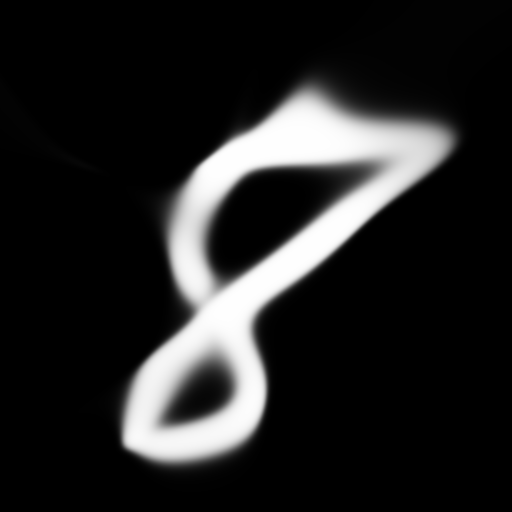
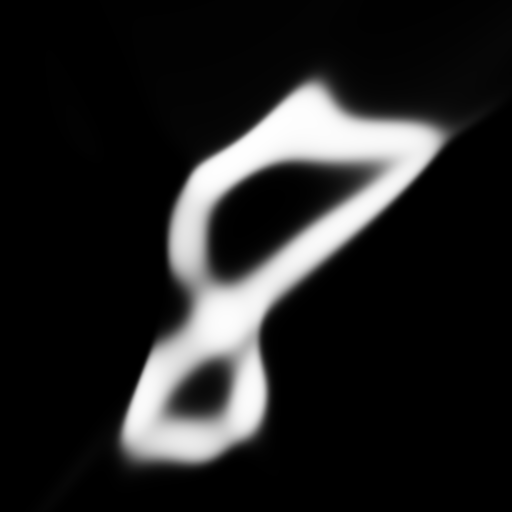
[upscale_img] working on ui

diff --git a/upscale_img.cpp b/upscale_img.cpp
@@ -18,6 +18,15 @@
 #include "nn.h"
 
 #define DA_INIT_CAP 256
+#define da_append(da, item, dtype) \
+	do { \
+		if ((da)->count >= (da)->capacity) { \
+			(da)->capacity = (da)->capacity == 0 ? DA_INIT_CAP : (da)->capacity * 2; \
+			(da)->items = (dtype*)realloc((da)->items, (da)->capacity*sizeof(*(da)->items)); \
+			assert((da)->items != NULL && "Buy more RAM lol"); \
+		} \
+		(da)->items[(da)->count++] = (item); \
+	} while(0) \
 
 typedef struct {
 	size_t* items;
@@ -31,15 +40,7 @@ typedef struct {
 	size_t capacity;
 } Cost_Plot;
 
-#define da_append(da, item, dtype) \
-	do { \
-		if ((da)->count >= (da)->capacity) { \
-			(da)->capacity = (da)->capacity == 0 ? DA_INIT_CAP : (da)->capacity * 2; \
-			(da)->items = (dtype*)realloc((da)->items, (da)->capacity*sizeof(*(da)->items)); \
-			assert((da)->items != NULL && "Buy more RAM lol"); \
-		} \
-		(da)->items[(da)->count++] = (item); \
-	} while(0) \
+size_t arch[] = { 3, 14, 14, 1 };
 
 void nn_render_raylib(NN nn, int rx, int ry, int rw, int rh)
 {
@@ -174,52 +175,82 @@ int main(int argc, char** argv)
 	const char* program = args_shift(&argc, &argv);
 
 	if (argc <= 0) {
-		fprintf(stderr, "USAGE: %s <input>\n", program);
-		fprintf(stderr, "ERROR: no input file is provided\n");
+		fprintf(stderr, "USAGE: %s <image1> <image2>\n", program);
+		fprintf(stderr, "ERROR: no image1 file is provided\n");
 
 		return 1;
 	}
-	const char* img_file_path = args_shift(&argc, &argv);
+	const char* img1_file_path = args_shift(&argc, &argv);
 
-	int img_width, img_height, img_comp;
-	uint8_t *img_pixels= (uint8_t*)stbi_load(img_file_path, &img_width, &img_height, &img_comp, 0);
-	if (img_pixels == NULL) {
-		fprintf(stderr, "ERROR: could not read image %s\n", img_file_path);
+	if (argc <= 0) {
+		fprintf(stderr, "USAGE: %s <image1> <image2>\n", program);
+		fprintf(stderr, "ERROR: no image2 file is provided\n");
+
 		return 1;
 	}
-	if (img_comp != 1) {
-		fprintf(stderr, "ERROR: %s is %d bits image. Only 8 bit grayscale images are supported\n", img_file_path, img_comp * 8);
+	const char* img2_file_path = args_shift(&argc, &argv);
+
+	int img1_width, img1_height, img1_comp;
+	uint8_t *img1_pixels= (uint8_t*)stbi_load(img1_file_path, &img1_width, &img1_height, &img1_comp, 0);
+	if (img1_pixels == NULL) {
+		fprintf(stderr, "ERROR: could not read image %s\n", img1_file_path);
+		return 1;
+	}
+	if (img1_comp != 1) {
+		fprintf(stderr, "ERROR: %s is %d bits image. Only 8 bit grayscale images are supported\n", img1_file_path, img1_comp * 8);
 		
 		return 1;
 	}
 
-	printf("%s size %dX%d %d bits\n", img_file_path, img_width, img_height, img_comp*8);
+	printf("%s size %dX%d %d bits\n", img1_file_path, img1_width, img1_height, img1_comp * 8);
 
-	size_t input = 2;
-	size_t output = 1;
-	size_t arch[] = { input, 7, 7, output };
-	Mat t = mat_alloc(img_width * img_height, input + output);
-
-	for (int y = 0; y < img_height; ++y) {
-		for (int x = 0; x < img_width; ++x) {
-			size_t i = y * img_width + x;
-
-			MAT_AT(t, i, 0) = (float)x / (img_width - 1);
-			MAT_AT(t, i, 1) = (float)y / (img_height - 1);
-			MAT_AT(t, i, 2) = img_pixels[y * img_width + x] / 255.f;
-		}
+	int img2_width, img2_height, img2_comp;
+	uint8_t *img2_pixels= (uint8_t*)stbi_load(img2_file_path, &img2_width, &img2_height, &img2_comp, 0);
+	if (img2_pixels == NULL) {
+		fprintf(stderr, "ERROR: could not read image %s\n", img2_file_path);
+		return 1;
+	}
+	if (img2_comp != 1) {
+		fprintf(stderr, "ERROR: %s is %d bits image. Only 8 bit grayscale images are supported\n", img1_file_path, img2_comp * 8);
+		
+		return 1;
 	}
 
-	mat_shuffle_rows(t);
+	printf("%s size %dX%d %d bits\n", img2_file_path, img2_width, img2_height, img2_comp*8);
+
 
 	NN nn = nn_alloc(arch, ARRAY_LEN(arch));
 	NN g = nn_alloc(arch, ARRAY_LEN(arch));
+
+	Mat t = mat_alloc(img1_width * img1_height + img2_width * img2_height, NN_INPUT(nn).cols + NN_OUTPUT(nn).cols);
+
+	for (int y = 0; y < img1_height; ++y) {
+		for (int x = 0; x < img1_width; ++x) {
+			size_t i = y * img1_width + x;
+
+			MAT_AT(t, i, 0) = (float)x / (img1_width - 1);
+			MAT_AT(t, i, 1) = (float)y / (img1_height - 1);
+			MAT_AT(t, i, 2) = 0.0f;
+			MAT_AT(t, i, 3) = img1_pixels[y * img1_width + x] / 255.f;
+		}
+	}
+
+	for (int y = 0; y < img2_height; ++y) {
+		for (int x = 0; x < img2_width; ++x) {
+			size_t i = img1_width * img1_height +  y * img2_width + x;
+
+			MAT_AT(t, i, 0) = (float)x / (img2_width - 1);
+			MAT_AT(t, i, 1) = (float)y / (img2_height - 1);
+			MAT_AT(t, i, 2) = 1.0f;
+			MAT_AT(t, i, 3) = img2_pixels[y * img2_width + x] / 255.f;
+		}
+	}
 	nn_rand(nn, -1.f, 1.f);
 
 	clock_t start, end;
 	float t_speed, est_time = 0;
 
-	float rate = 0.5f;
+	float rate = 1.0f;
 	size_t max_epoch = 1e4;
 	size_t epoch = 0;
 
@@ -234,29 +265,35 @@ int main(int argc, char** argv)
 	Cost_Plot plot = { 0 };
 
 	// training neural network and visualization
-	size_t IMG_FACTOR = 100;
-	int IMG_WIDTH = (16 * IMG_FACTOR);
-	int IMG_HEIGHT = (9 * IMG_FACTOR);
+	// creating window
+	size_t WINDOW_FACTOR = 100;
+	int WINDOW_WIDTH = (16 * WINDOW_FACTOR);
+	int WINDOW_HEIGHT = (9 * WINDOW_FACTOR);
 
 	SetConfigFlags(FLAG_WINDOW_RESIZABLE);
-
-	char buffer[256];
-	snprintf(buffer, sizeof(buffer), "%s Upscaling", img_file_path);
-	InitWindow(IMG_WIDTH, IMG_HEIGHT, buffer);
-
+	InitWindow(WINDOW_WIDTH, WINDOW_HEIGHT, "Upscaling Image");
 	SetTargetFPS(60);
 
 	// preview images
-	int factor = 3;
-	int prev_width = img_width*factor;
-	int prev_height = img_height*factor;
+	int factor = 1;
+	int prev_width = img1_width*factor;
+	int prev_height = img1_height*factor;
 
-	Image original_image = LoadImage(img_file_path);
-	Texture2D original_texture = LoadTextureFromImage(original_image);
+	Image original_image1 = LoadImage(img1_file_path);
+	Texture2D original_texture1 = LoadTextureFromImage(original_image1);
+	Image original_image2 = LoadImage(img2_file_path);
+	Texture2D original_texture2 = LoadTextureFromImage(original_image2);
+	
+	Image preview_image1 = GenImageColor(prev_width, prev_height, BLACK);
+	Texture2D preview_texture1 = LoadTextureFromImage(preview_image1);
+	Image preview_image2 = GenImageColor(prev_width, prev_height, BLACK);
+	Texture2D preview_texture2 = LoadTextureFromImage(preview_image2);
+	
 	Image preview_image = GenImageColor(prev_width, prev_height, BLACK);
 	Texture2D preview_texture = LoadTextureFromImage(preview_image);
 
 	bool paused = false;
+	float scroll = 0.0f;
 
 	while (!WindowShouldClose()) {
 		if (IsKeyPressed(KEY_SPACE)) {
@@ -269,7 +306,7 @@ int main(int argc, char** argv)
 			plot.count = 0;
 		}
 
-		if (IsKeyPressed(KEY_C)) {
+		if (IsKeyPressed(KEY_I)) {
 			max_epoch += max_epoch / 4;
 		}
 
@@ -286,14 +323,14 @@ int main(int argc, char** argv)
 
 			Mat batch_ti;
 			batch_ti.rows = size;
-			batch_ti.cols = input;
+			batch_ti.cols = NN_INPUT(nn).cols;
 			batch_ti.stride = t.stride;
 			batch_ti.es = &MAT_AT(t, batch_begin, 0);
 
 
 			Mat batch_to;
 			batch_to.rows = size;
-			batch_to.cols = output;
+			batch_to.cols = NN_OUTPUT(nn).cols;
 			batch_to.stride = t.stride;
 			batch_to.es = &MAT_AT(t, batch_begin, batch_ti.cols);
 
@@ -307,6 +344,7 @@ int main(int argc, char** argv)
 				da_append(&plot, average_cost/batch_count, float);
 				average_cost = 0.0f;
 				batch_begin = 0;
+				mat_shuffle_rows(t);
 			}
 		}
 
@@ -314,60 +352,116 @@ int main(int argc, char** argv)
 		Color background_color = { 0x18, 0x18, 0x18, 0xFF };
 		ClearBackground(background_color);
 		{
+			char buffer[256];
 			int rw, rh, rx, ry;
 			int w = GetRenderWidth();
 			int h = GetRenderHeight();
 
+			// cost plot
 			rw = w / 3;
 			rh = h * 2 / 3;
 			rx = 0;
 			ry = h / 2 - rh / 2;
 			plot_cost_raylib(plot, rx, ry, rw, rh);
 
+			// instructions render
+			DrawText("Pause -> [SPACE]\t\t\t\t\tReload -> [R]\t\t\t\t\tIncrease Epoch -> [I]", rx + 25, h - 2 * h * 0.02, h * 0.02, WHITE);
+
+			// nn render
 			rx += rw;
 			nn_render_raylib(nn, rx, ry, rw, rh);
 
+			// preview image render
 			rx += rw;
 			for (size_t y = 0; y < (size_t)prev_width; ++y) {
 				for (size_t x = 0; x < (size_t)prev_height; ++x) {
 					MAT_AT(NN_INPUT(nn), 0, 0) = (float)x / (prev_width - 1);
 					MAT_AT(NN_INPUT(nn), 0, 1) = (float)y / (prev_height - 1);
+					MAT_AT(NN_INPUT(nn), 0, 2) = 0.0f;
+					nn_forward(nn);
+					uint8_t pixel = MAT_AT(NN_OUTPUT(nn), 0, 0) * 255.f;
+					ImageDrawPixel(&preview_image1, x, y, CLITERAL(Color){pixel, pixel, pixel, 255});
+				}
+			}
+			for (size_t y = 0; y < (size_t)prev_width; ++y) {
+				for (size_t x = 0; x < (size_t)prev_height; ++x) {
+					MAT_AT(NN_INPUT(nn), 0, 0) = (float)x / (prev_width - 1);
+					MAT_AT(NN_INPUT(nn), 0, 1) = (float)y / (prev_height - 1);
+					MAT_AT(NN_INPUT(nn), 0, 2) = 1.0f;
+					nn_forward(nn);
+					uint8_t pixel = MAT_AT(NN_OUTPUT(nn), 0, 0) * 255.f;
+					ImageDrawPixel(&preview_image2, x, y, CLITERAL(Color){pixel, pixel, pixel, 255});
+				}
+			}
+			for (size_t y = 0; y < (size_t)prev_width; ++y) {
+				for (size_t x = 0; x < (size_t)prev_height; ++x) {
+					MAT_AT(NN_INPUT(nn), 0, 0) = (float)x / (prev_width - 1);
+					MAT_AT(NN_INPUT(nn), 0, 1) = (float)y / (prev_height - 1);
+					MAT_AT(NN_INPUT(nn), 0, 2) = scroll;
 					nn_forward(nn);
 					uint8_t pixel = MAT_AT(NN_OUTPUT(nn), 0, 0) * 255.f;
 					ImageDrawPixel(&preview_image, x, y, CLITERAL(Color){pixel, pixel, pixel, 255});
 				}
 			}
 
-			int scale = 15;
-			DrawTextureEx(original_texture, CLITERAL(Vector2) {(float)rx, (float)ry}, 0, scale, WHITE);
-			UpdateTexture(preview_texture, preview_image.data);
-			DrawTextureEx(preview_texture, CLITERAL(Vector2) {(float)rx, (float)(ry + prev_height*scale/factor)}, 0, scale/factor, WHITE);
+			float scale = rh * 0.013;
 
+			snprintf(buffer, sizeof(buffer), "%s:", img1_file_path);
+			DrawText(buffer, rx, ry - h * 0.02, h * 0.02, WHITE);
+			DrawTextureEx(original_texture1, CLITERAL(Vector2) {(float)rx, (float)ry}, 0, scale, WHITE);
+
+			snprintf(buffer, sizeof(buffer), "%s:", img2_file_path);
+			DrawText(buffer, rx + original_image1.width * scale, ry - h * 0.02, h * 0.02, WHITE);
+			UpdateTexture(original_texture2, original_image2.data);
+			DrawTextureEx(original_texture2, CLITERAL(Vector2) {(float)rx + original_image1.width * scale, (float)ry}, 0, scale, WHITE);
+
+			UpdateTexture(preview_texture1, preview_image1.data);
+			DrawTextureEx(preview_texture1, CLITERAL(Vector2) {(float)rx, (float)(ry + prev_height * scale / factor)}, 0, scale / factor, WHITE);
+			UpdateTexture(preview_texture2, preview_image2.data);
+			DrawTextureEx(preview_texture2, CLITERAL(Vector2) {(float)rx + prev_width * scale / factor, (float)(ry + prev_height * scale / factor)}, 0, scale / factor, WHITE);
+
+			DrawText("output:", rx, ry + prev_height * 2 * scale / factor, h * 0.02, WHITE);
+			UpdateTexture(preview_texture, preview_image.data);
+			DrawTextureEx(preview_texture, CLITERAL(Vector2) {(float)rx, (float)(ry + prev_height * 2 * scale / factor + h * 0.02)}, 0, scale / factor, WHITE);
+
+			// slider
+			Vector2 position = { (float)rx, (float)(ry + prev_height * 3 * scale / factor + h * 0.04) };
+			Vector2 size = { prev_width * scale / factor, rh * 0.004f };
+			float knob_radius = rh * 0.01;
+			Vector2 knob_position = { rx + size.x * scroll, position.y + size.y * 0.5f };
+			DrawRectangleV(position, size, WHITE);
+			DrawCircleV(knob_position , knob_radius, RED);
+			
+			snprintf(buffer, sizeof(buffer), "%.2f", scroll);
+			DrawText(buffer, rx + size.x * scroll, position.y + size.y + h * 0.01f, h * 0.005f, WHITE);
+			
+			// info render
 			if (!paused) {
 				end = clock();
 				t_speed = (((float)end - (float)start) * batch_count/ (batches_per_frame * CLOCKS_PER_SEC));
 				est_time = (max_epoch - epoch) * t_speed;
 			}
 
-			char buffer[256];
 			snprintf(buffer, sizeof(buffer), "Epoch: %zu/%zu, Rate: %f, Est. Time: %f sec", epoch, max_epoch, rate, est_time);
 			DrawText(buffer, 0, 0, h * 0.04, WHITE);
 		}
 		EndDrawing();
 	}
 	
-	for (size_t y = 0; y < (size_t)img_height; ++y) {
-		for (size_t x = 0; x < (size_t)img_width; ++x) {
-			uint8_t pixel = img_pixels[y*img_width + x];
+	// stdout
+	for (size_t y = 0; y < (size_t)img1_height; ++y) {
+		for (size_t x = 0; x < (size_t)img1_width; ++x) {
+			uint8_t pixel = img1_pixels[y*img1_width + x];
 			if (pixel) printf("%3u ", pixel); else printf("    ");
 		}
 		printf("\n");
 	}
 
-	for (size_t y = 0; y < (size_t)img_height; ++y) {
-		for (size_t x = 0; x < (size_t)img_width; ++x) {
-			MAT_AT(NN_INPUT(nn), 0, 0) = (float)x / (img_width - 1);
-			MAT_AT(NN_INPUT(nn), 0, 1) = (float)y / (img_height - 1);
+	for (size_t y = 0; y < (size_t)img1_height; ++y) {
+		for (size_t x = 0; x < (size_t)img1_width; ++x) {
+			MAT_AT(NN_INPUT(nn), 0, 0) = (float)x / (img1_width - 1);
+			MAT_AT(NN_INPUT(nn), 0, 1) = (float)y / (img1_height - 1);
+			MAT_AT(NN_INPUT(nn), 0, 2) = scroll;
 			nn_forward(nn);
 			uint8_t pixel = MAT_AT(NN_OUTPUT(nn), 0, 0) * 255.f;
 			if (pixel) printf("%3u ", pixel); else printf("    ");
@@ -375,6 +469,7 @@ int main(int argc, char** argv)
 		printf("\n");
 	}
 
+	// generating upscaled output img
 	size_t out_width = 512;
 	size_t out_height = 512;
 	uint8_t* out_pixels = (uint8_t*)malloc(sizeof(*out_pixels) * out_width * out_height);
@@ -384,21 +479,21 @@ int main(int argc, char** argv)
 		for (size_t x = 0; x < out_width; ++x) {
 			MAT_AT(NN_INPUT(nn), 0, 0) = (float)x / (out_width - 1);
 			MAT_AT(NN_INPUT(nn), 0, 1) = (float)y / (out_height - 1);
+			MAT_AT(NN_INPUT(nn), 0, 2) = scroll;
 			nn_forward(nn);
 			uint8_t pixel = MAT_AT(NN_OUTPUT(nn), 0, 0) * 255.f;
 			out_pixels[y * out_width + x] = pixel;
 		}
 	}
 
-	char out_file_path[256];
-	snprintf(out_file_path, sizeof(out_file_path), "%s_upscaled.png", img_file_path);
+	char out_file_path[256] = "output/upscaled.png";
 
 	if (!stbi_write_png(out_file_path, out_width, out_height, 1, out_pixels, out_width * sizeof(*out_pixels))) {
 		fprintf(stderr, "ERROR: could not save image %s\n", out_file_path);
 		return 1;
 	}
 
-	printf("INFO: Generated %s from %s", out_file_path, img_file_path);
+	printf("INFO: Generated %s from %s,%s", out_file_path, img1_file_path, img2_file_path);
 
 	return 0;
 }
